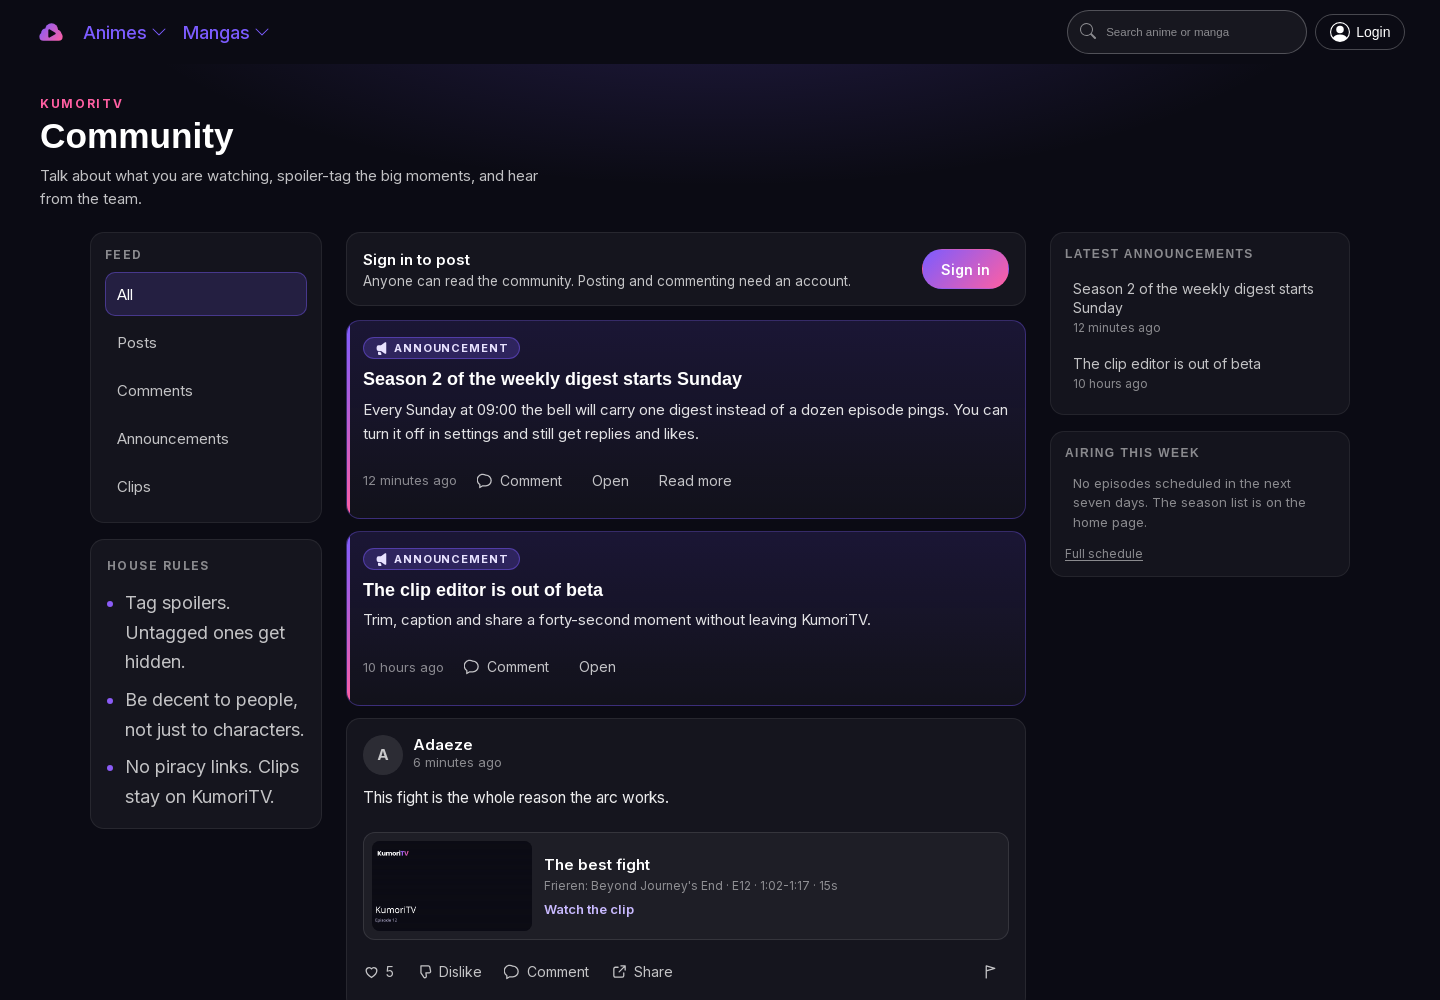
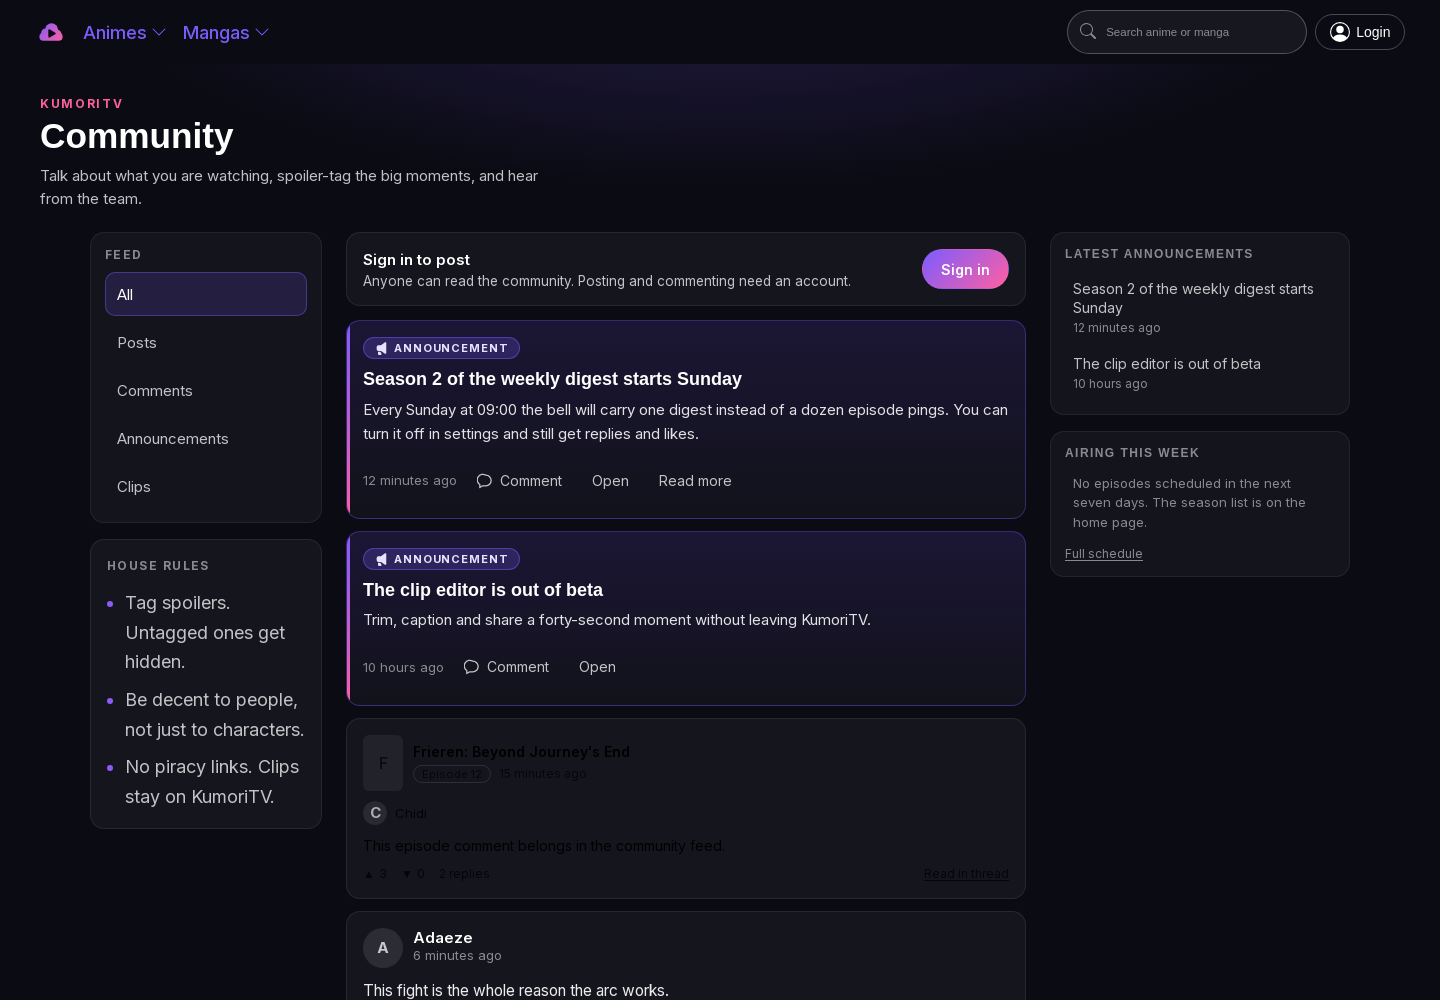
fix(community): post pages resolve the clip by id; the feed keeps comments
Two bugs the live site showed at https://kumoritv.top/community, both confirmed
against production (anon key, from outside the app) before changing anything.

1. Every post page said "Post not found". community_posts has no clip_code
   column - it has clip_id (the row id), and clip_code is only an OUT column of
   community_feed_page. The post page selected clip_code from the table, so
   PostgREST answered 400 (42703, column does not exist), loadPost swallowed it,
   and notFound() ran for every post, clip or text. Confirmed:
     GET /rest/v1/community_posts?select=id,clip_code  -> 400 "column
     community_posts.clip_code does not exist"
   The page now selects clip_id and resolves the code from the clip row through
   the new getClipById(); a clip_id whose row is gone is the 'removed' card.

2. The Comments tab was empty, and so was every page after the first. The RPC
   was answering all along: community_feed_page(p_kind => 'comment') returned 11
   comments for a guest. listFeedPage() - the loader used by a filter switch,
   "Load more" and the retry - kept only kind 'post' and 'announcement' and threw
   the comment rows away. It now keeps 'comment' too, which is what page.tsx
   already did.

Also: a failed first page is no longer a dead end. The page logged nothing and
rendered an error card instead of letting the browser retry, which is why this
could only be diagnosed from the database side. It now console.errors the
[…]

diff --git a/frontend/app/community/post/[id]/page.tsx b/frontend/app/community/post/[id]/page.tsx
@@ -11,10 +11,10 @@ import SpoilerBody from "@/app/community/components/SpoilerBody";
 import ThreadActions from "@/app/community/components/ThreadActions";
 import styles from "@/app/community/page.module.css";
 import { isCommunityEnabled } from "@/app/lib/community/flag";
-import { clipCardFor, type ClipCard } from "@/app/lib/community/clip-post";
+import { buildClipCard, type ClipCard } from "@/app/lib/community/clip-post";
 import { ADULT_LABEL, clipDurationLabel, clipMetaLabel, clipRangeLabel, clipThumbPath } from "@/app/lib/community/clip-attachment";
 import { readShowAdultContent } from "@/app/lib/anilist/adult-content";
-import { getAnimeSummary, getClipByCode } from "@/app/lib/clips/server";
+import { getAnimeSummary, getClipById } from "@/app/lib/clips/server";
 import { createClient } from "@/app/lib/supabase/server";
 import { getAuthUser } from "@/app/lib/supabase/auth-server";
 
@@ -28,7 +28,7 @@ type PostRow = {
   body: string;
   is_spoiler: boolean;
   created_at: string;
-  clip_code: string | null;
+  clip_id: string | null;
 };
 
 const loadPost = cache(async function loadPost(id: string): Promise<PostRow | null> {
@@ -37,7 +37,7 @@ const loadPost = cache(async function loadPost(id: string): Promise<PostRow | nu
     if (!client) return null;
     const { data, error } = await (client as any)
       .from("community_posts")
-      .select("id, author_id, body, is_spoiler, created_at, clip_code")
+      .select("id, author_id, body, is_spoiler, created_at, clip_id")
       .eq("id", id)
       .maybeSingle();
     if (error) return null;
@@ -96,17 +96,26 @@ export default async function CommunityPostPage({ params }: { params: { id: stri
   // The clip this post carries, resolved and gated here on the server: an
   // adult clip with the reader's adult setting off becomes the masked card and
   // the clip row's title, range and code never enter the response.
+  // The table keeps the clip's id (community_posts.clip_id), never its code:
+  // selecting `clip_code` from the table - a name that only exists as an OUT
+  // column of community_feed_page - made PostgREST answer 400 and turned every
+  // post page into "Post not found". The code comes from the clip row.
   let clip: ClipCard = { state: "none" };
-  if (post.clip_code) {
+  if (post.clip_id) {
     let showAdult = false;
     try {
       showAdult = await readShowAdultContent();
     } catch {
       showAdult = false;
     }
-    const row = await getClipByCode(post.clip_code);
-    const summary = row ? await getAnimeSummary(Number(row.anilist_id)) : null;
-    clip = clipCardFor(post.clip_code, row, summary, showAdult);
+    const row = await getClipById(post.clip_id);
+    if (!row) {
+      // The post points at a clip that has since been deleted.
+      clip = { state: "removed" };
+    } else {
+      const summary = await getAnimeSummary(Number(row.anilist_id));
+      clip = buildClipCard(row, summary, showAdult);
+    }
   }
 
   const name = author?.display_name || author?.username || "Someone";

diff --git a/frontend/app/lib/community/__tests__/queries.test.ts b/frontend/app/lib/community/__tests__/queries.test.ts
@@ -1,0 +1,56 @@
+// The feed loader used by every client-side load: a filter switch, "Load more",
+// and the retry after a failed first paint. It is not the same code as the
+// server page, so the two can disagree - and they did: the loader kept posts and
+// announcements and threw away every comment row, which is why the Comments tab
+// showed nothing while the RPC was returning comments all along.
+
+import assert from "node:assert/strict";
+import test from "node:test";
+
+import { listFeedPage, type FeedItem } from "../queries";
+
+const row = (kind: string, key: string): FeedItem =>
+  ({ feed_key: key, kind, created_at: "2026-11-14T10:00:00.000Z" }) as unknown as FeedItem;
+
+/** The smallest thing listFeedPage needs: an rpc() that answers like PostgREST. */
+function fakeClient(rows: FeedItem[] | null, error: { message: string } | null = null) {
+  return { rpc: async () => ({ data: error ? null : rows, error }) } as never;
+}
+
+test("comments are cards too: a client load keeps them", async () => {
+  const rows = [
+    row("post", "post:1"),
+    row("comment", "comment:2"),
+    row("announcement", "announcement:3"),
+    row("comment", "comment:4"),
+  ];
+  const result = await listFeedPage(fakeClient(rows), { filter: "comment" });
+  assert.equal(result.error, null);
+  assert.deepEqual(result.data?.items.map((item) => item.feed_key), [
+    "post:1",
+    "comment:2",
+    "announcement:3",
+    "comment:4",
+  ]);
+});
+
+test("the cursor is the last row returned, whatever its kind", async () => {
+  const result = await listFeedPage(fakeClient([row("comment", "comment:9")]));
+  assert.deepEqual(result.data?.cursor, { createdAt: "2026-11-14T10:00:00.000Z", key: "comment:9" });
+});
+
+test("rows without a kind are dropped, and an error is passed through", async () => {
+  const junk = [{ feed_key: "x" }, ...[]] as unknown as FeedItem[];
+  const clean = await listFeedPage(fakeClient([...junk, row("post", "post:1")]));
+  assert.deepEqual(clean.data?.items.map((item) => item.feed_key), ["post:1"]);
+
+  const failed = await listFeedPage(fakeClient(null, { message: "boom" }));
+  assert.equal(failed.data, null);
+  assert.ok(failed.error);
+});
+
+test("no client is an error, not an empty feed", async () => {
+  const result = await listFeedPage(null);
+  assert.equal(result.data, null);
+  assert.equal(result.error?.code, "unavailable");
+});

diff --git a/frontend/app/community/page.tsx b/frontend/app/community/page.tsx
@@ -46,7 +46,6 @@ export default async function CommunityPage({
 
   let initialItems: FeedItem[] = [];
   let initialCursor: { createdAt: string; key: string } | null = null;
-  let initialFailed = false;
 
   try {
     const client = createClient();
@@ -62,7 +61,11 @@ export default async function CommunityPage({
         p_hide_blocked: true,
       });
       if (error) {
-        initialFailed = true;
+        // Swallowing this is why the page could only ever say "could not load".
+        // PostgREST's code and message are the two things that explain it, and
+        // neither is sensitive: a wrong signature, a missing grant or a column
+        // the deployed schema does not have.
+        console.error("[community] first feed page failed on the server", error);
       } else {
         initialItems = ((data ?? []) as FeedItem[]).filter(
           (row) => row && (row.kind === "post" || row.kind === "announcement" || row.kind === "comment"),
@@ -71,8 +74,8 @@ export default async function CommunityPage({
         initialCursor = last ? { createdAt: last.created_at, key: last.feed_key } : null;
       }
     }
-  } catch {
-    initialFailed = true;
+  } catch (error) {
+    console.error("[community] first feed page threw on the server", error);
   }
 
   return (
@@ -80,7 +83,10 @@ export default async function CommunityPage({
       initialFilter={initialFilter}
       initialItems={initialItems}
       initialCursor={initialCursor}
-      initialFailed={initialFailed}
+      // A failed first page is not a dead end: the shell fetches the same page
+      // in the browser, where the client is a different connection and the user
+      // has their session. The error card only appears if that also fails.
+      initialFailed={false}
       initialShowAdult={initialShowAdult}
       initialAnimeId={initialAnimeId}
       rightRail={<CommunityRails />}

diff --git a/frontend/test-harness/community-e2e/clip-posts.spec.ts b/frontend/test-harness/community-e2e/clip-posts.spec.ts
@@ -59,6 +59,24 @@ test.describe("clip posts", () => {
     await shot(page, "phase3-feed-clip-cards");
   });
 
+  test("the Comments chip draws an episode comment", async ({ page }) => {
+    // The regression: the client loader kept posts and announcements and threw
+    // comments away, so this tab was empty even though the RPC answered.
+    await page.setViewportSize({ width: 1440, height: 1000 });
+    await page.goto("/community");
+    await settleFeed(page);
+    await page.getByRole("navigation").getByRole("button", { name: "Comments", exact: true }).click();
+    await expect(
+      page.getByText("This episode comment belongs in the community feed."),
+    ).toBeVisible({ timeout: 15000 });
+    // It is a card like any other: the anime, the episode and a way into the
+    // thread, plus the reply count the RPC sent.
+    await expect(page.getByText("Frieren: Beyond Journey's End").first()).toBeVisible();
+    await expect(page.getByText("Episode 12").first()).toBeVisible();
+    await expect(page.getByText("2 replies").first()).toBeVisible();
+    await shot(page, "phase3-comments-tab");
+  });
+
   test("the Clips chip narrows the feed to clips", async ({ page }) => {
     await page.setViewportSize({ width: 1440, height: 1000 });
     await page.goto("/community");

diff --git a/frontend/app/lib/clips/server.ts b/frontend/app/lib/clips/server.ts
@@ -74,6 +74,27 @@ function db(): any | null {
 }
 
 /** One live clip by code, or null (missing, deleted, or database down). */
+/**
+ * One clip by its row id. The community stores `community_posts.clip_id`, so a
+ * post page resolves its clip this way and takes the code from the row; the
+ * table has no `clip_code` column to select.
+ */
+export async function getClipById(id: string): Promise<ClipRow | null> {
+  const client = db();
+  if (!client || typeof id !== "string" || !id) return null;
+  try {
+    const { data } = await client
+      .from("clips")
+      .select(SELECT)
+      .eq("id", id)
+      .is("deleted_at", null)
+      .maybeSingle();
+    return (data as ClipRow | null) ?? null;
+  } catch {
+    return null;
+  }
+}
+
 export async function getClipByCode(code: string): Promise<ClipRow | null> {
   const client = db();
   if (!client || typeof code !== "string" || !code) return null;

diff --git a/frontend/app/lib/community/queries.ts b/frontend/app/lib/community/queries.ts
@@ -105,8 +105,12 @@ export async function listFeedPage(
     });
     if (error) return { data: null, error: toFailure(error) };
 
+    // Every kind the RPC can return is drawn as a card: posts, announcements
+    // and - since Phase 2 - top-level episode/anime comments. Dropping comments
+    // here is what made the Comments tab (and every page after the first) look
+    // empty while the database was returning them.
     const items = ((data ?? []) as FeedItem[]).filter(
-      (row) => row && (row.kind === "post" || row.kind === "announcement"),
+      (row) => row && (row.kind === "post" || row.kind === "announcement" || row.kind === "comment"),
     );
     const last = items[items.length - 1];
     return {
